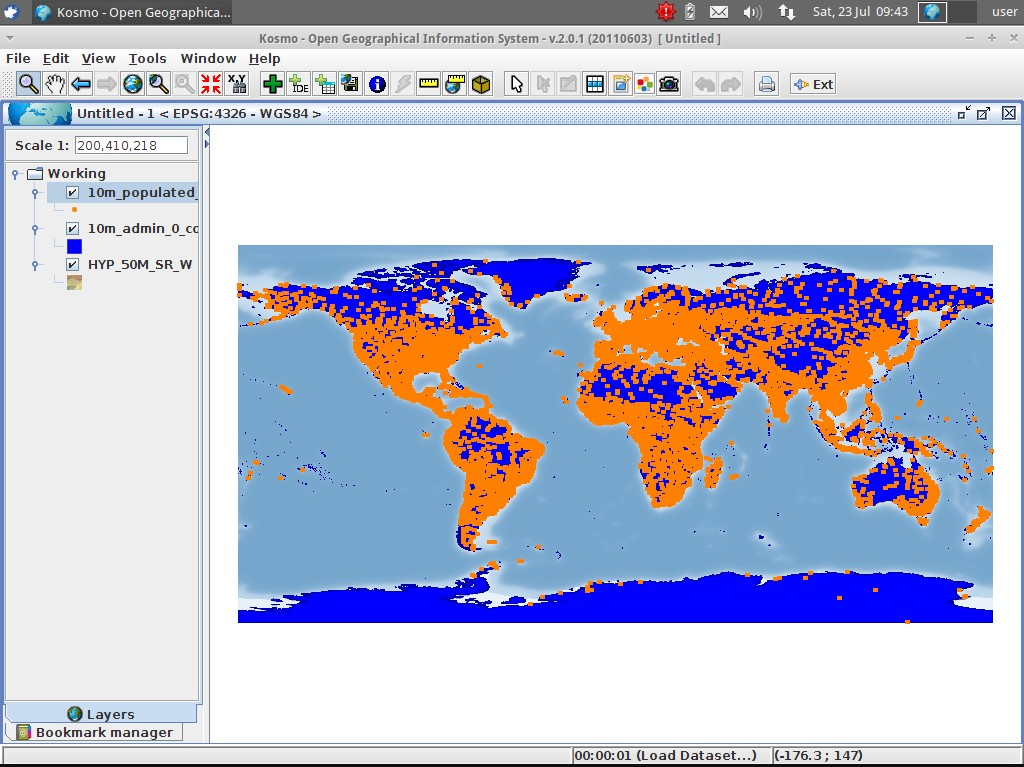
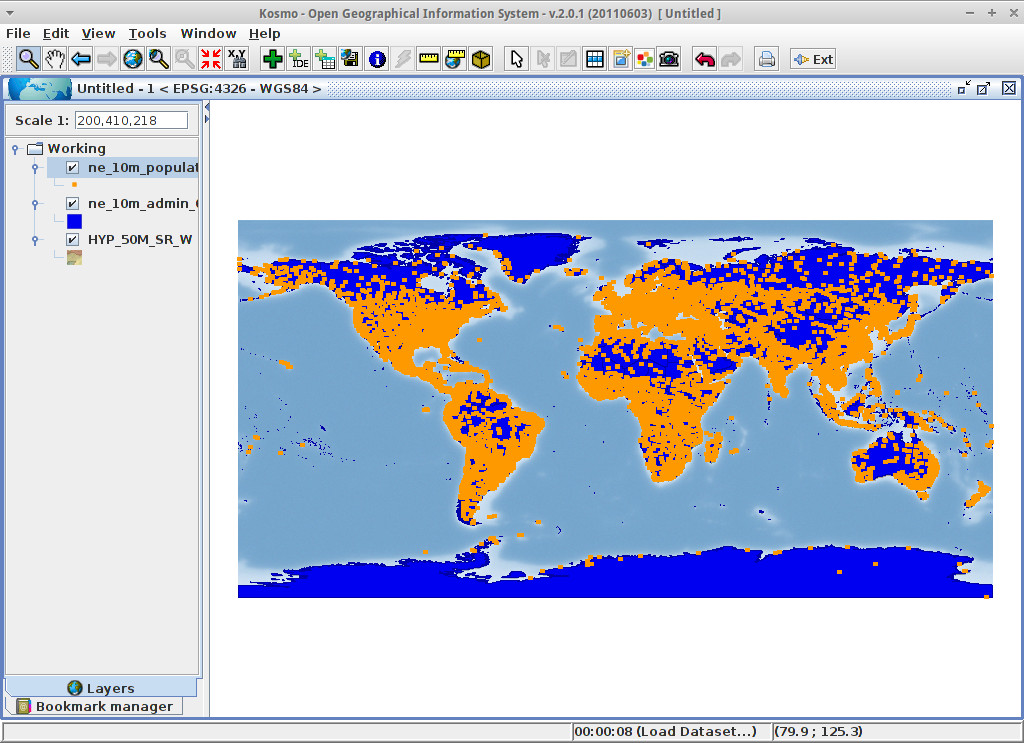
1) Added new Advanced Styling and Extensions sections 2) Updated previous screenshots to reflect the natural_earth2 dataset name changes 3) Changed some file name paths
git-svn-id: http://svn.osgeo.org/osgeo/livedvd/gisvm/trunk@9655 7da46fd8-bd2a-0410-a152-cf9810cf5b10

diff --git a/doc/en/quickstart/kosmo_quickstart.rst b/doc/en/quickstart/kosmo_quickstart.rst
@@ -95,19 +95,19 @@ To start out, we're going to load some of the sample data included on the OSGeo-
 
 #. In the *Format* combobox, select *Shapefile* (**1**)
 
-#. In the file chooser, select the file :file:`ne_10m_admin_0_countries.shp` from the directory :file:`/usr/local/share/data/natural_earth2` (**2**)
+#. In the file chooser, select the file :file:`ne_10m_admin_0_countries.shp` from the directory :file:`/home/user/data/natural_earth2` (**2**)
 
 #. Press the *Ok* button to load the selected shapefile (**3**)
 
    .. image:: ../../images/screenshots/800x600/kosmo_select_shape_file.png
 
-#. In the layer tree, press the visibility checkbox to make the layer visible, right clicking on the *Working* folder if needed
+#. In the layer tree, press the visibility checkbox to make the layer visible
 
 #. Choose again the option *View > Load Dataset...* or push the button with the green plus from the main toolbar
 
 #. In the *Format* combobox, select *Image file* (**1**)
 
-#. In the file chooser, select the file :file:`HYP_50M_SR_W.tif` from the directory :file:`/usr/local/share/data/natural_earth2/` (**2**)
+#. In the file chooser, select the file :file:`HYP_50M_SR_W.tif` from the directory :file:`/home/user/data/natural_earth2/` (**2**)
 
 #. Press the *Ok* button to load the selected image file (**3**)
 
@@ -122,8 +122,8 @@ To start out, we're going to load some of the sample data included on the OSGeo-
 .. note::
   The OSGeo-Live DVD contains some file data examples in the following directories:
   
-  * :file:`~/data` (a shortcut to :file:`/usr/local/share/data` or :file:`/home/user/data`)
-  * :file:`/usr/local/share/openjump/data`
+  * :file:`/home/user/data` (shapefiles and raster files)
+  * :file:`/usr/local/share/OpenJUMP/sample_data` (shapefiles)
       
   You can try to load more examples from those directories. Remember to select the correct format from the *Format* combobox       
 
@@ -274,8 +274,7 @@ Apart from those tools, it's also available the possibility to zoom in/out by us
   If any tool/menu option is disabled, you can place the cursor over the button/option to see a tooltip where the reason is shown 
 
 
-
-Styling
+Basic Styling
 ================================================================================
 
 In this section we're going to style a layer by range using the country population as styling attribute:
@@ -298,12 +297,86 @@ In this section we're going to style a layer by range using the country populati
 
    .. image:: ../../images/screenshots/1024x768/kosmo_styled_layer_by_range.jpg
      :scale: 70 %
+     
+     
+
+Advanced Styling
+================================================================================
+
+In this section we're going to style a layer with some rules and filters, based on an attribute. The example shows how to create two rules, one for capital populated places and other for the rest of them:
+
+#. Select the layer `ne_10m_populated_places` in the layer tree
+
+#. Right click on it and select the option *Simbology > Advanced Style Editor...*
+
+#. Select the feature type style `ne_10m_populated_places` (**1**) and press the + button (**2**) to add a new rule to it 
+
+   .. image:: ../../images/screenshots/800x600/kosmo_advanced_style_feature_type.png
+ 
+#. Select `Point symbolizer` as symbolizer type (**1**) and press the `Ok` button (**2**)
+
+   .. image:: ../../images/screenshots/800x600/kosmo_advanced_style_symbolizer.png
+
+#. Select the new rule in the tree (**1**) and edit its properties: set **capital_rule** as `Name` (**2**), **Capitals** as `Title` (**3**),activate its filter (**4**) and edit it (**5**)
+
+   .. image:: ../../images/screenshots/800x600/kosmo_advanced_style_capital_rule.png
+
+#. Select **featurecla** as `Field` (**1**), **Equal to (=)** as `Operator` (**2**) and press the `...` button (**3**) to select an attribute value
+
+   .. image:: ../../images/screenshots/800x600/kosmo_advanced_style_filter.png
+
+#. Select the **Admin-0 capital** value (**1**) and press the `Ok` button (**2**)
+
+   .. image:: ../../images/screenshots/800x600/kosmo_advanced_style_attr_value.png
+
+#. Press the `Add` button (**1**) to add the condition to the filter and the `Ok` button (**2**) to set the filter to the rule
+
+   .. image:: ../../images/screenshots/800x600/kosmo_advanced_style_filter_2.png
+
+#. Select the capital rule point symbolizer in the tree (**1**) and edit its properties: set its `Size` to **8** (**2**), its `Well Known Mark` type as **circle** (**3**) and `Color` to light green (**4**)
+
+   .. image:: ../../images/screenshots/800x600/kosmo_advanced_style_capital_rule_symbolizer.png
+
+#. Select the other rule in the tree (**1**) and edit its properties: set **others_rule** as `Name` (**2**), **Others** as `Title` (**3**), mark the `Else filter` checkbox (**4**) and set its maximum scale to **25,000,000** (**5**) (it's necessary to press ENTER key after setting the value manually to set it)
+
+   .. image:: ../../images/screenshots/800x600/kosmo_advanced_style_others_rule.png
+
+#. Press the *Ok* button to apply the changes
+
+#. The layer will change its style to reflect the changes:
+
+   .. image:: ../../images/screenshots/1024x768/kosmo_styled_layer_by_filter.jpg
+     :scale: 70 %
+     
+     
+.. note::
+  When the map is at full layer scale only capitals are shown. If you zoom in close enough, all the populated places would be shown
+
+
+Extensions
+================================================================================
+
+In this section we're going to activate the Sextante toolbox extension:
+
+#. Choose the option *File > Extension Manager...* or push the button with the `Ext` text from the main toolbar
+
+#. Mark the Sextante extension checkbox (**1**) and press the `Ok` button (**2**)
+
+   .. image:: ../../images/screenshots/800x600/kosmo_extension_manager.png
+
+#. A new Sextante button will be available at the right of the main toolbar
+
+   .. image:: ../../images/screenshots/800x600/kosmo_sextante_extension.png
+
+.. tip:: 
+  If the `Mark as default` option is selected, the extension would be loaded automatically on next application startup
+
 
 
 Things to Try
 ================================================================================
 
-* Use the advanced style editor (`Symbology > Advanced style editor...`) to create more complex styles
+* Use the Advanced Style editor (`Symbology > Advanced style editor...`) to create more complex styles
 
 * Use the `Query wizard` to select those features that accomplish a given criteria
 
@@ -311,7 +384,10 @@ Things to Try
 
 * Generate a set of topology rules for a layer and try to edit it
 
-* Activate the set of extensions that form part of the application and see the new tools that are present
+* Activate the rest of extensions that form part of the application and see the new tools that are present
+
+* Configure the application options through the menu option *File > Configuration...*
+
 
 
 What Next?
